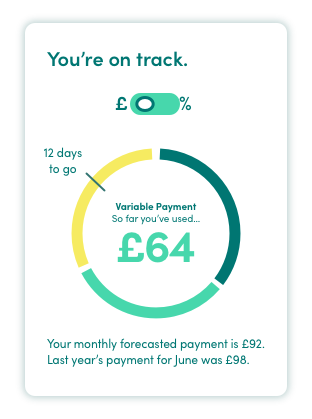
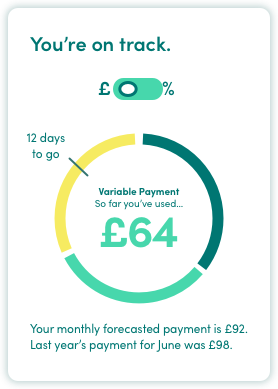
Fix/da uk 1147 design fixes

diff --git a/packages/pages/home/src/home.component.tsx b/packages/pages/home/src/home.component.tsx
@@ -6,6 +6,7 @@ import FlexRow from '@somo/pda-components-flex-row/src';
 import Image from '@somo/pda-components-image/src';
 import List from '@somo/pda-components-list/src';
 import PageSection, { PageSectionStyle } from '@somo/pda-components-page-section/src';
+import TextImage from '@somo/pda-components-text-image/src';
 import Text, { ColorStyles, TextStyles } from '@somo/pda-components-text/src';
 import RegularLayout from '@somo/pda-layouts-regular/src';
 import { getImagePath } from '@somo/pda-utils-imagery/src';
@@ -53,30 +54,32 @@ const HomePage: React.FC<IHomePageProps> = ({ imagery }) => {
       </PageSection>
 
       <PageSection style={PageSectionStyle.TertiaryPattern} isNarrow={true}>
-        <FlexRow className={styles.understandEnergyRow} layout={[60, 40]}>
-          <div>
-            <Text
-              className={styles.understandEnergyTitle}
-              element="h2"
-              type={TextStyles.h2}
-              color={ColorStyles.secondary}
-            >
-              {t('site.homepage.understandEnergy.title')}
-            </Text>
-            <List
-              classNames={styles.understandEnergyList}
-              listContent={t('site.homepage.understandEnergy.list', { returnObjects: true })}
-              textColor={ColorStyles.secondary}
-            />
-          </div>
-          <div>
+        <TextImage
+          text={
+            <div>
+              <Text
+                className={styles.understandEnergyTitle}
+                element="h2"
+                type={TextStyles.h2}
+                color={ColorStyles.secondary}
+              >
+                {t('site.homepage.understandEnergy.title')}
+              </Text>
+              <List
+                classNames={styles.understandEnergyList}
+                listContent={t('site.homepage.understandEnergy.list', { returnObjects: true })}
+                textColor={ColorStyles.secondary}
+              />
+            </div>
+          }
+          image={
             <Image
               src={getImagePath(imagery, 'energy-pie')}
               alt={t('site.homepage.understandEnergy.title')}
               isLazy={true}
             />
-          </div>
-        </FlexRow>
+          }
+        />
       </PageSection>
 
       <PageSection>

diff --git a/packages/components/text-image/src/text-image.stories.tsx b/packages/components/text-image/src/text-image.stories.tsx
@@ -1,0 +1,30 @@
+import { boolean, text } from '@storybook/addon-knobs';
+import { storiesOf } from '@storybook/react';
+import * as React from 'react';
+
+import Image from '@somo/pda-components-image/src';
+import Text, { TextStyles } from '@somo/pda-components-text/src';
+
+import Component from './index';
+
+storiesOf('Components|text-image', module)
+  .addDecorator((story) => <div style={{ width: '40vw' }}>{story()}</div>)
+  .add('Default', () => (
+    <Component
+      reverse={boolean('reverse', false)}
+      text={
+        <div>
+          <Text element="h2" type={TextStyles.h2}>
+            {text('text (title)', 'Title here')}
+          </Text>
+          <Text element="p" type={TextStyles.body}>
+            {text(
+              'text (body)',
+              'Text goes here text goes here text goes here text goes here text goes here text goes here text goes here.',
+            )}
+          </Text>
+        </div>
+      }
+      image={<Image src={'https://bit.ly/2RXBzai'} />}
+    />
+  ));

diff --git a/packages/components/text-image/src/text-image.module.css b/packages/components/text-image/src/text-image.module.css
@@ -1,0 +1,37 @@
+.textImage {
+  flex-direction: row;
+}
+
+.textImage div:nth-child(2n) {
+  display: flex;
+  flex-direction: row;
+  justify-content: center;
+
+  @media (--s) {
+    justify-content: flex-end;
+  }
+}
+
+.reversed {
+  flex-direction: row-reverse;
+}
+
+.textImage.reversed div:nth-child(2n - 1) {
+  display: flex;
+  flex-direction: column;
+  margin-right: 0;
+
+  @media (--s) {
+    align-items: flex-end;
+  }
+}
+
+.textImage.reversed div:nth-child(2n) {
+  display: flex;
+  flex-direction: row;
+  margin-right: var(--spacing-xl);
+
+  @media (--s) {
+    justify-content: flex-start;
+  }
+}

diff --git a/packages/components/text-image/src/text-image.component.tsx b/packages/components/text-image/src/text-image.component.tsx
@@ -1,0 +1,23 @@
+import classNames from 'classnames';
+import React from 'react';
+
+import FlexRow from '@somo/pda-components-flex-row/src';
+
+import * as styles from './text-image.module.css';
+
+export interface ITextImageProps {
+  text: JSX.Element;
+  image: JSX.Element;
+  reverse?: boolean;
+}
+
+const TextImage: React.FC<ITextImageProps> = ({ text, image, reverse }) => {
+  return (
+    <FlexRow className={classNames([styles.textImage], { [styles.reversed]: reverse })} layout={[60, 40]}>
+      <div>{text}</div>
+      <div>{image}</div>
+    </FlexRow>
+  );
+};
+
+export default TextImage;

diff --git a/packages/components/text-image/src/text-image.test.tsx b/packages/components/text-image/src/text-image.test.tsx
@@ -1,0 +1,24 @@
+import { shallow } from 'enzyme';
+import React from 'react';
+
+import Image from '@somo/pda-components-image/src';
+
+import Component from '.';
+
+describe('TextImage', () => {
+  let wrapper;
+
+  const props = {
+    text: (
+      <div>
+        <h1>Example</h1>
+      </div>
+    ),
+    image: <Image src="foo.bar" />,
+  };
+
+  it('should render without error', () => {
+    wrapper = shallow(<Component {...props} />);
+    expect(wrapper).toBeDefined();
+  });
+});

diff --git a/packages/components/text/src/text.module.css b/packages/components/text/src/text.module.css
@@ -39,7 +39,7 @@
   }
 
   @media (--m) {
-    font-size: var(--font-size-3xl);
+    font-size: var(--font-size-xxl);
     line-height: 1.06;
   }
 }
@@ -78,7 +78,7 @@
   }
 
   @media (--m) {
-    font-size: var(--font-size-xxl);
+    font-size: var(--font-size-xl);
     line-height: 1.2;
   }
 }
@@ -93,8 +93,8 @@
   }
 
   @media (--m) {
-    font-size: var(--font-size-xl);
-    line-height: 1.25;
+    font-size: var(--font-size-s);
+    line-height: 1.4;
   }
 }
 

diff --git a/packages/components/page-hero/src/page-hero.module.css b/packages/components/page-hero/src/page-hero.module.css
@@ -3,12 +3,12 @@
   padding: var(--spacing-m) 0;
 
   @media (--s) {
-    min-height: 180px;
+    min-height: 236px;
     display: flex;
     flex-direction: column;
     justify-content: center;
     align-items: flex-start;
-    padding: var(--spacing-xxl) 30% var(--spacing-xxl) 0;
+    padding: var(--spacing-xxl) 20% var(--spacing-xxl) 0;
   }
 }
 

diff --git a/packages/components/ring/src/ring.module.css b/packages/components/ring/src/ring.module.css
@@ -7,7 +7,15 @@
   padding: 10px;
   height: 60px;
   border-radius: 30px;
-  background: var(--color-grey-light);
+  background: var(--color-grey-lighter);
+  border: 1px solid var(--color-grey-mid);
+}
+
+.base > div {
+  display: flex;
+  align-content: center;
+  align-items: center;
+  justify-content: center;
 }
 
 .primary {

diff --git a/packages/components/image/src/image.component.tsx b/packages/components/image/src/image.component.tsx
@@ -26,7 +26,7 @@ const Image: React.FC<IImageProps> = ({
     updateErrorState(true);
   };
 
-  const classes = cx({ [styles.fallback]: !props.src || hasError }, className, {
+  const classes = cx([styles.image], { [styles.fallback]: !props.src || hasError }, className, {
     [styles.cmsContent]: isCMSContent,
   });
 

diff --git a/packages/components/content-card/src/content-card.module.css b/packages/components/content-card/src/content-card.module.css
@@ -12,12 +12,13 @@
   }
 
   @media (--m) {
-    margin-bottom: var(--spacing-xl);
+    margin-bottom: var(--spacing-l);
   }
 }
 
 .contentCardTitle {
   margin-left: var(--spacing-s);
+  margin-bottom: 0 !important;
 
   @media (--m) {
     margin-left: var(--spacing-l);

diff --git a/packages/utils/tokens/src/tokens.ts b/packages/utils/tokens/src/tokens.ts
@@ -38,7 +38,7 @@ const fontWeights = {
 };
 
 const fontSizes = {
-  '5xl': '60px',
+  '5xl': '56px',
   '4xl': '48px',
   '3xl': '34px',
   xxl: '30px',

diff --git a/packages/components/navbar/src/navbar.module.css b/packages/components/navbar/src/navbar.module.css
@@ -10,6 +10,10 @@
   width: 120px;
   cursor: pointer;
   z-index: 101;
+
+  @media (--s) {
+    width: 180px;
+  }
 }
 
 .logo svg {
